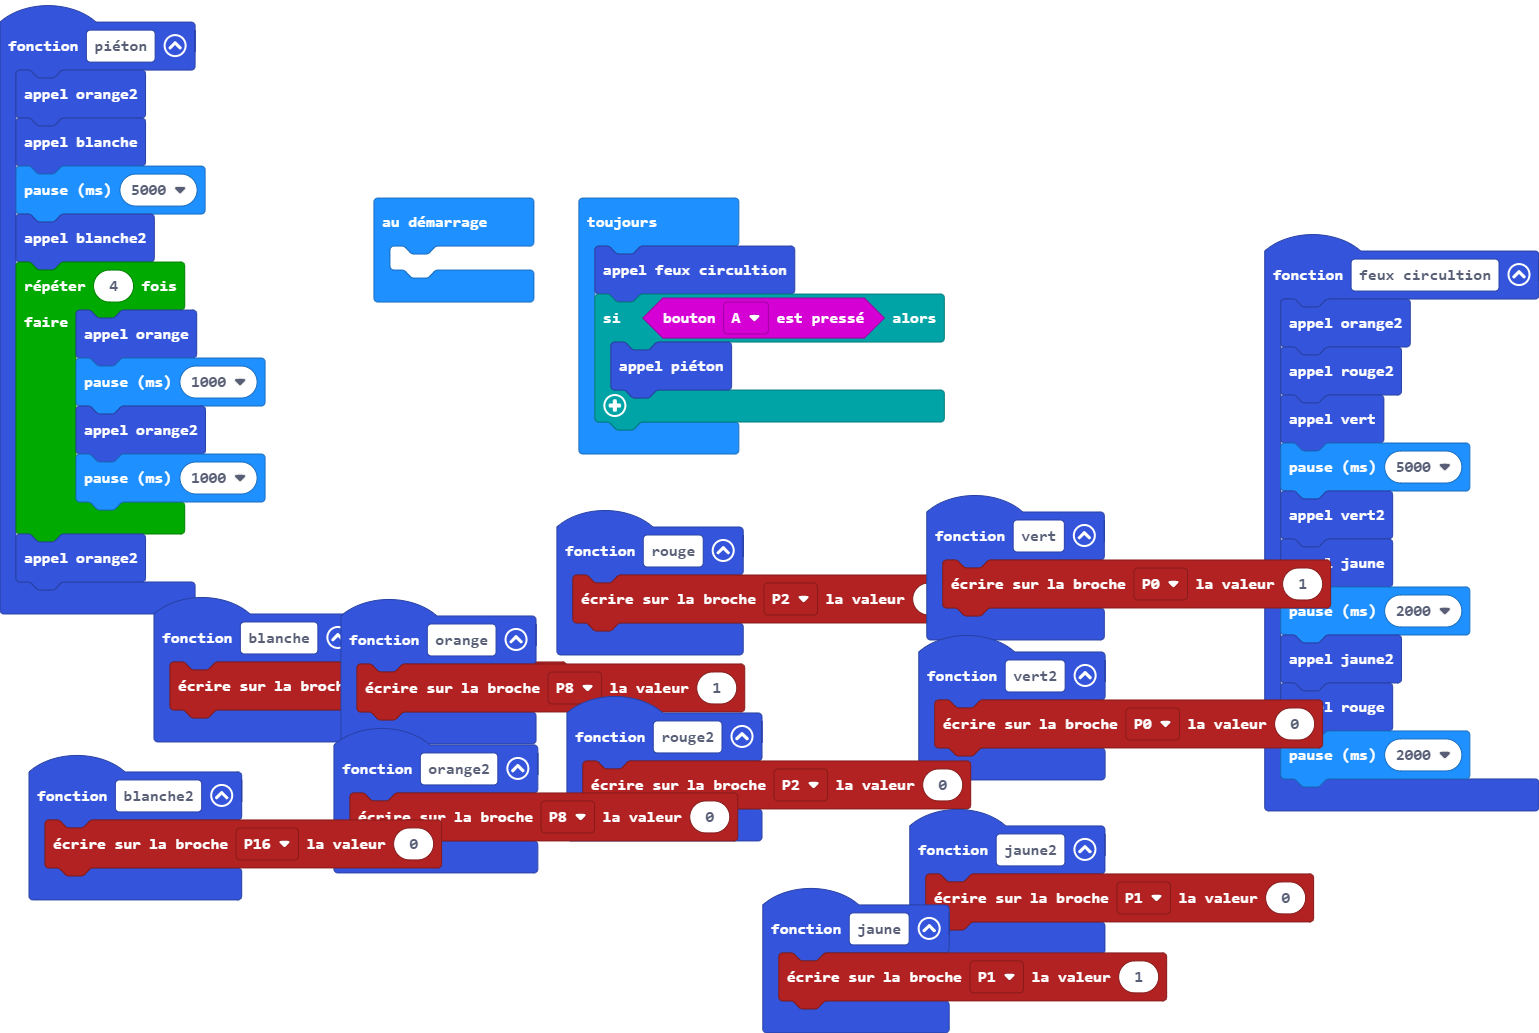
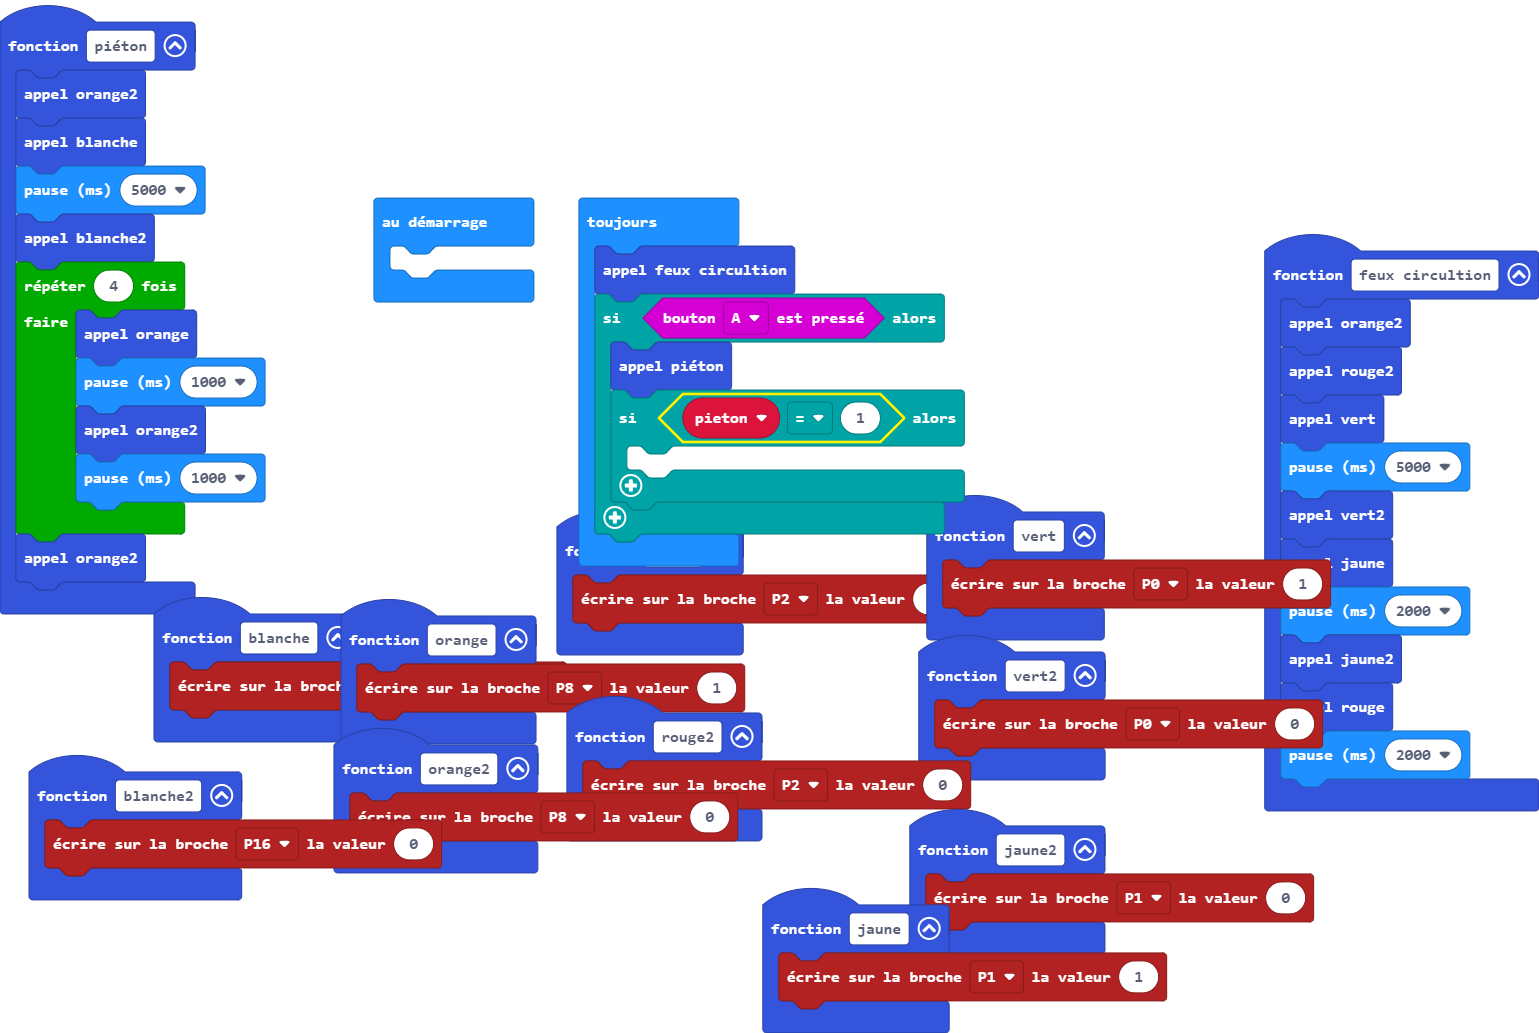
Mise à jour main.blocks, main.ts

Changed region(s): [[0.3743, 0.3717, 0.6238, 0.5576]]

diff --git a/main.ts b/main.ts
@@ -56,6 +56,10 @@ function vert () {
 basic.forever(function () {
     feux_circultion()
     if (input.buttonIsPressed(Button.A)) {
+        let pieton = 0
         piéton()
+        if (pieton == 1) {
+        	
+        }
     }
 })
